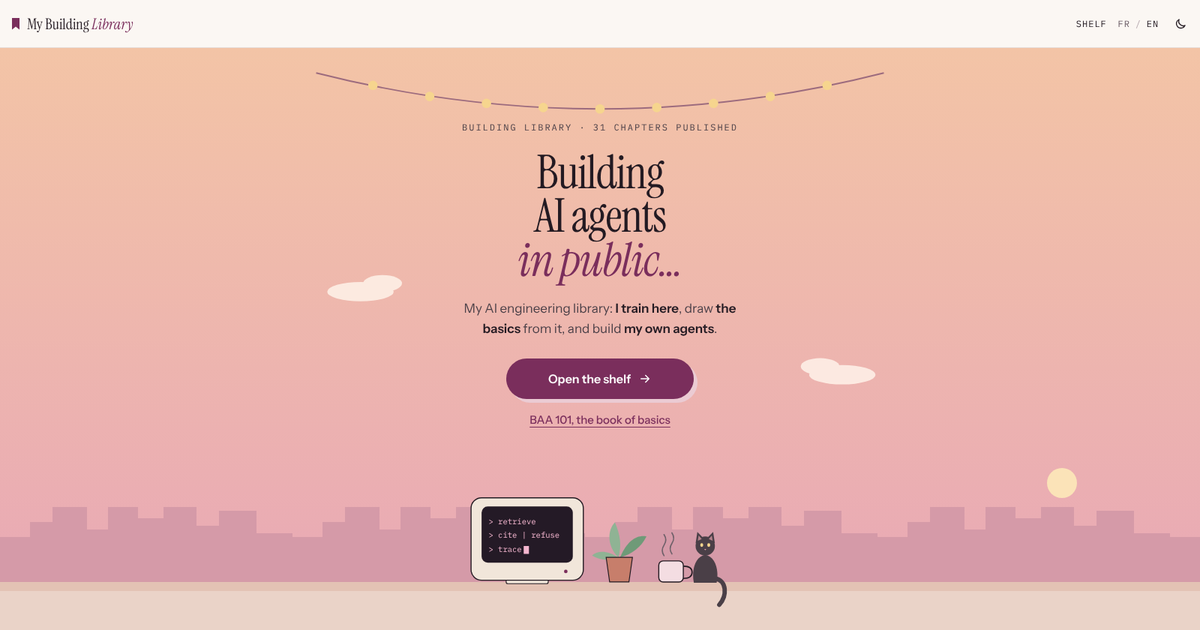
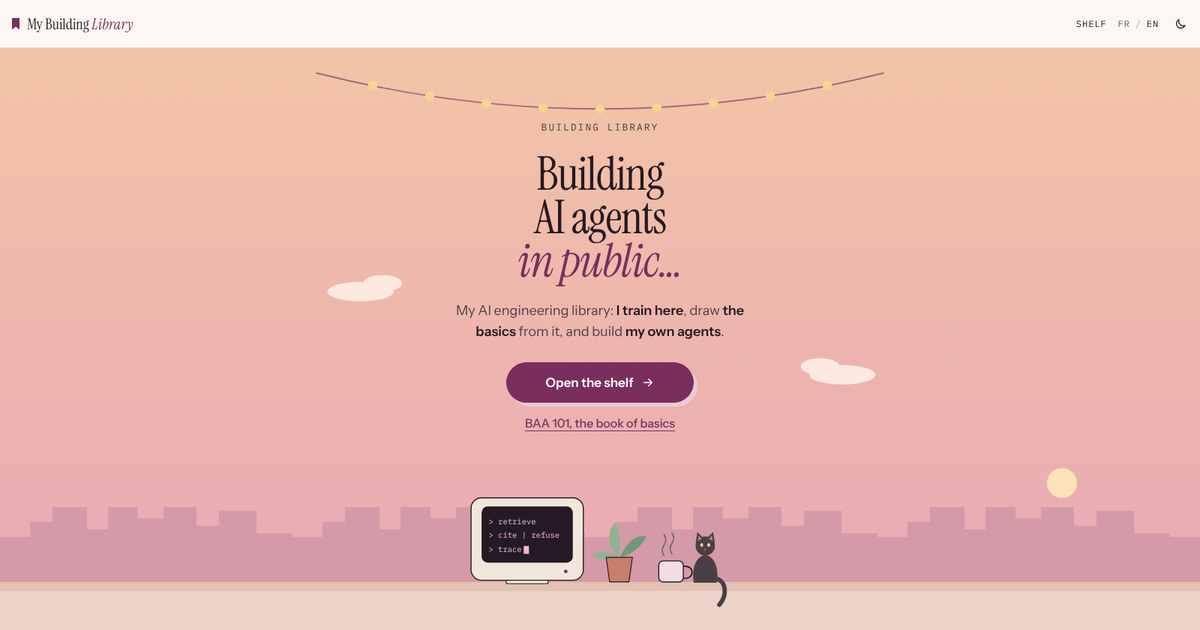
style: larger small texts; no chapter count on home; link preview images

Changed region(s): [[0.37, 0.4825, 0.6167, 0.6937], [0.4317, 0.2413, 0.555, 0.4524], [0.37, 0.181, 0.6167, 0.2111]]

diff --git a/src/styles/global.css b/src/styles/global.css
@@ -30,7 +30,7 @@
 :root[data-theme="dark"] .theme-moon { display: none; }
 :root[data-theme="dark"] .theme-sun { display: block; }
 *, *::before, *::after { box-sizing: border-box; }
-body { margin: 0; background: var(--paper); color: var(--ink); font-family: var(--font-sans); font-size: 16px; line-height: 1.6; }
+body { margin: 0; background: var(--paper); color: var(--ink); font-family: var(--font-sans); font-size: 17px; line-height: 1.6; }
 .page { max-width: var(--page-max); margin-inline: auto; }
 em { font-style: italic; color: var(--accent-text); }
 a { color: var(--accent-text); }

diff --git a/docs/design-decisions.md b/docs/design-decisions.md
@@ -132,10 +132,10 @@ Sur la scène, la ligne mono du haut passe donc en `--ink-soft` : `--ink-muted` 
 | Titre de carte chapitre | Serif 28 px |
 | Citation d'encadré | Serif 26–30 px |
 | Chiffres de stats | Serif 40 px, en prune |
-| Sous-titre accueil | Sans 17 px · interligne 1.6 |
-| Texte d'interface | Sans 14–16 px |
+| Sous-titre accueil | Sans 18 px · interligne 1.6 |
+| Texte d'interface | Sans 15–17 px |
 | Boutons | Sans 15–16 px · 600 |
-| Labels mono | 12–13 px · majuscules · espacement 1–2 px |
+| Labels mono | 13–14 px · majuscules · espacement 1–2 px (12 px dans l'en-tête et sur les couvertures) |
 | Corps de lecture | Newsreader 19 px · interligne 1.6 |
 | Teaser de chapitre | Newsreader 16 px · interligne 1.5 |
 
@@ -198,7 +198,7 @@ Sur la scène, la ligne mono du haut passe donc en `--ink-soft` : `--ink-muted` 
 
 - Réservée aux journeys.
 - Rail de 6 px en `--rule`, rayon 3 px. Remplissage dans la couleur de jauge du livre.
-- Label mono 12 px : `x/y chapitres` à gauche, pourcentage en `--ink` à droite. Le total est le nombre de chapitres du sommaire, jamais un chiffre saisi à part.
+- Label mono 13 px : `x/y chapitres` à gauche, pourcentage en `--ink` à droite. Le total est le nombre de chapitres du sommaire, jamais un chiffre saisi à part.
 - **BAA 101 n'a pas de jauge.** Il affiche « *Livre vivant* · N chapitre(s) », ou « · 1 chapitre à paraître » tant que rien n'est publié.
 
 ### 5.3 Index « Dernières pages »
@@ -273,7 +273,7 @@ Sur la scène, la ligne mono du haut passe donc en `--ink-soft` : `--ink-muted` 
 
 - Image `public/og-fr.png` et `public/og-en.png` (1200 × 630) : capture de l'accueil (scène au crépuscule, titre, sous-titre, bureau et chat), une par langue. Déclarée par `og:image` et `twitter:card = summary_large_image`, avec un texte alternatif.
 - Le portrait n'est jamais l'image d'aperçu : sans `og:image`, les messageries prenaient la photo de « Qui écrit ».
-- À régénérer quand l'accueil change (sous-titre, nombre de chapitres).
+- À régénérer quand l'accueil change (titre, sous-titre, scène).
 
 ### 5.8 bis Pied de page et profils
 
@@ -317,7 +317,7 @@ Sur la scène, la ligne mono du haut passe donc en `--ink-soft` : `--ink-muted` 
 
 ## 6. Règles
 
-- Taille de texte minimale : **12 px**, sans exception.
+- Taille de texte minimale : **12 px**, sans exception ; 13 px partout hors en-tête et couvertures depuis le 9 oct 2026 (les petits textes ont tous gagné 1 px, les titres et le corps de lecture sont inchangés).
 - Contraste du texte : 4,5:1 minimum, y compris sur le ciel de la scène d'accueil (voir 2.4).
 - Un seul accent d'interface, le prune. Les couleurs des livres ne servent jamais pour du texte.
 - Un décor ne passe jamais sur un titre. L'écran de couverture est un bloc séparé, sous le titre. Sur la scène d'accueil, le texte est posé sur le ciel uni ; nuages, soleil et lune restent hors de la zone de texte.
@@ -330,7 +330,7 @@ Sur la scène, la ligne mono du haut passe donc en `--ink-soft` : `--ink-muted` 
 - L'accroche « Building AI agents *in public…* » reste en anglais dans les deux langues. Le sous-titre est à la première personne et traduit (depuis le 9 oct 2026) :
   - FR : *Ma bibliothèque d'AI engineering : je m'y forme, j'en tire les bases, et je construis mes propres agents.*
   - EN : *My AI engineering library: I train here, draw the basics from it, and build my own agents.*
-  - Ligne mono au-dessus du titre : « MA BIBLIOTHÈQUE · N CHAPITRES PUBLIÉS » / « BUILDING LIBRARY · N CHAPTERS PUBLISHED ».
+  - Ligne mono au-dessus du titre : « MA BIBLIOTHÈQUE » / « BUILDING LIBRARY », sans nombre de chapitres (l'image d'aperçu de lien est une capture de cet écran : un nombre la rendrait obsolète à chaque chapitre).
 - **Anti-« gamin »** : pas de police manuscrite, pas de cœurs, pas de dégradés pastel, pas de rose bonbon.
   - **Exception validée le 9 oct 2026** : le ciel de la scène d'accueil est un dégradé pêche → rose (prune profond la nuit). C'est le seul dégradé du site.
 - **Anti-copie** :
